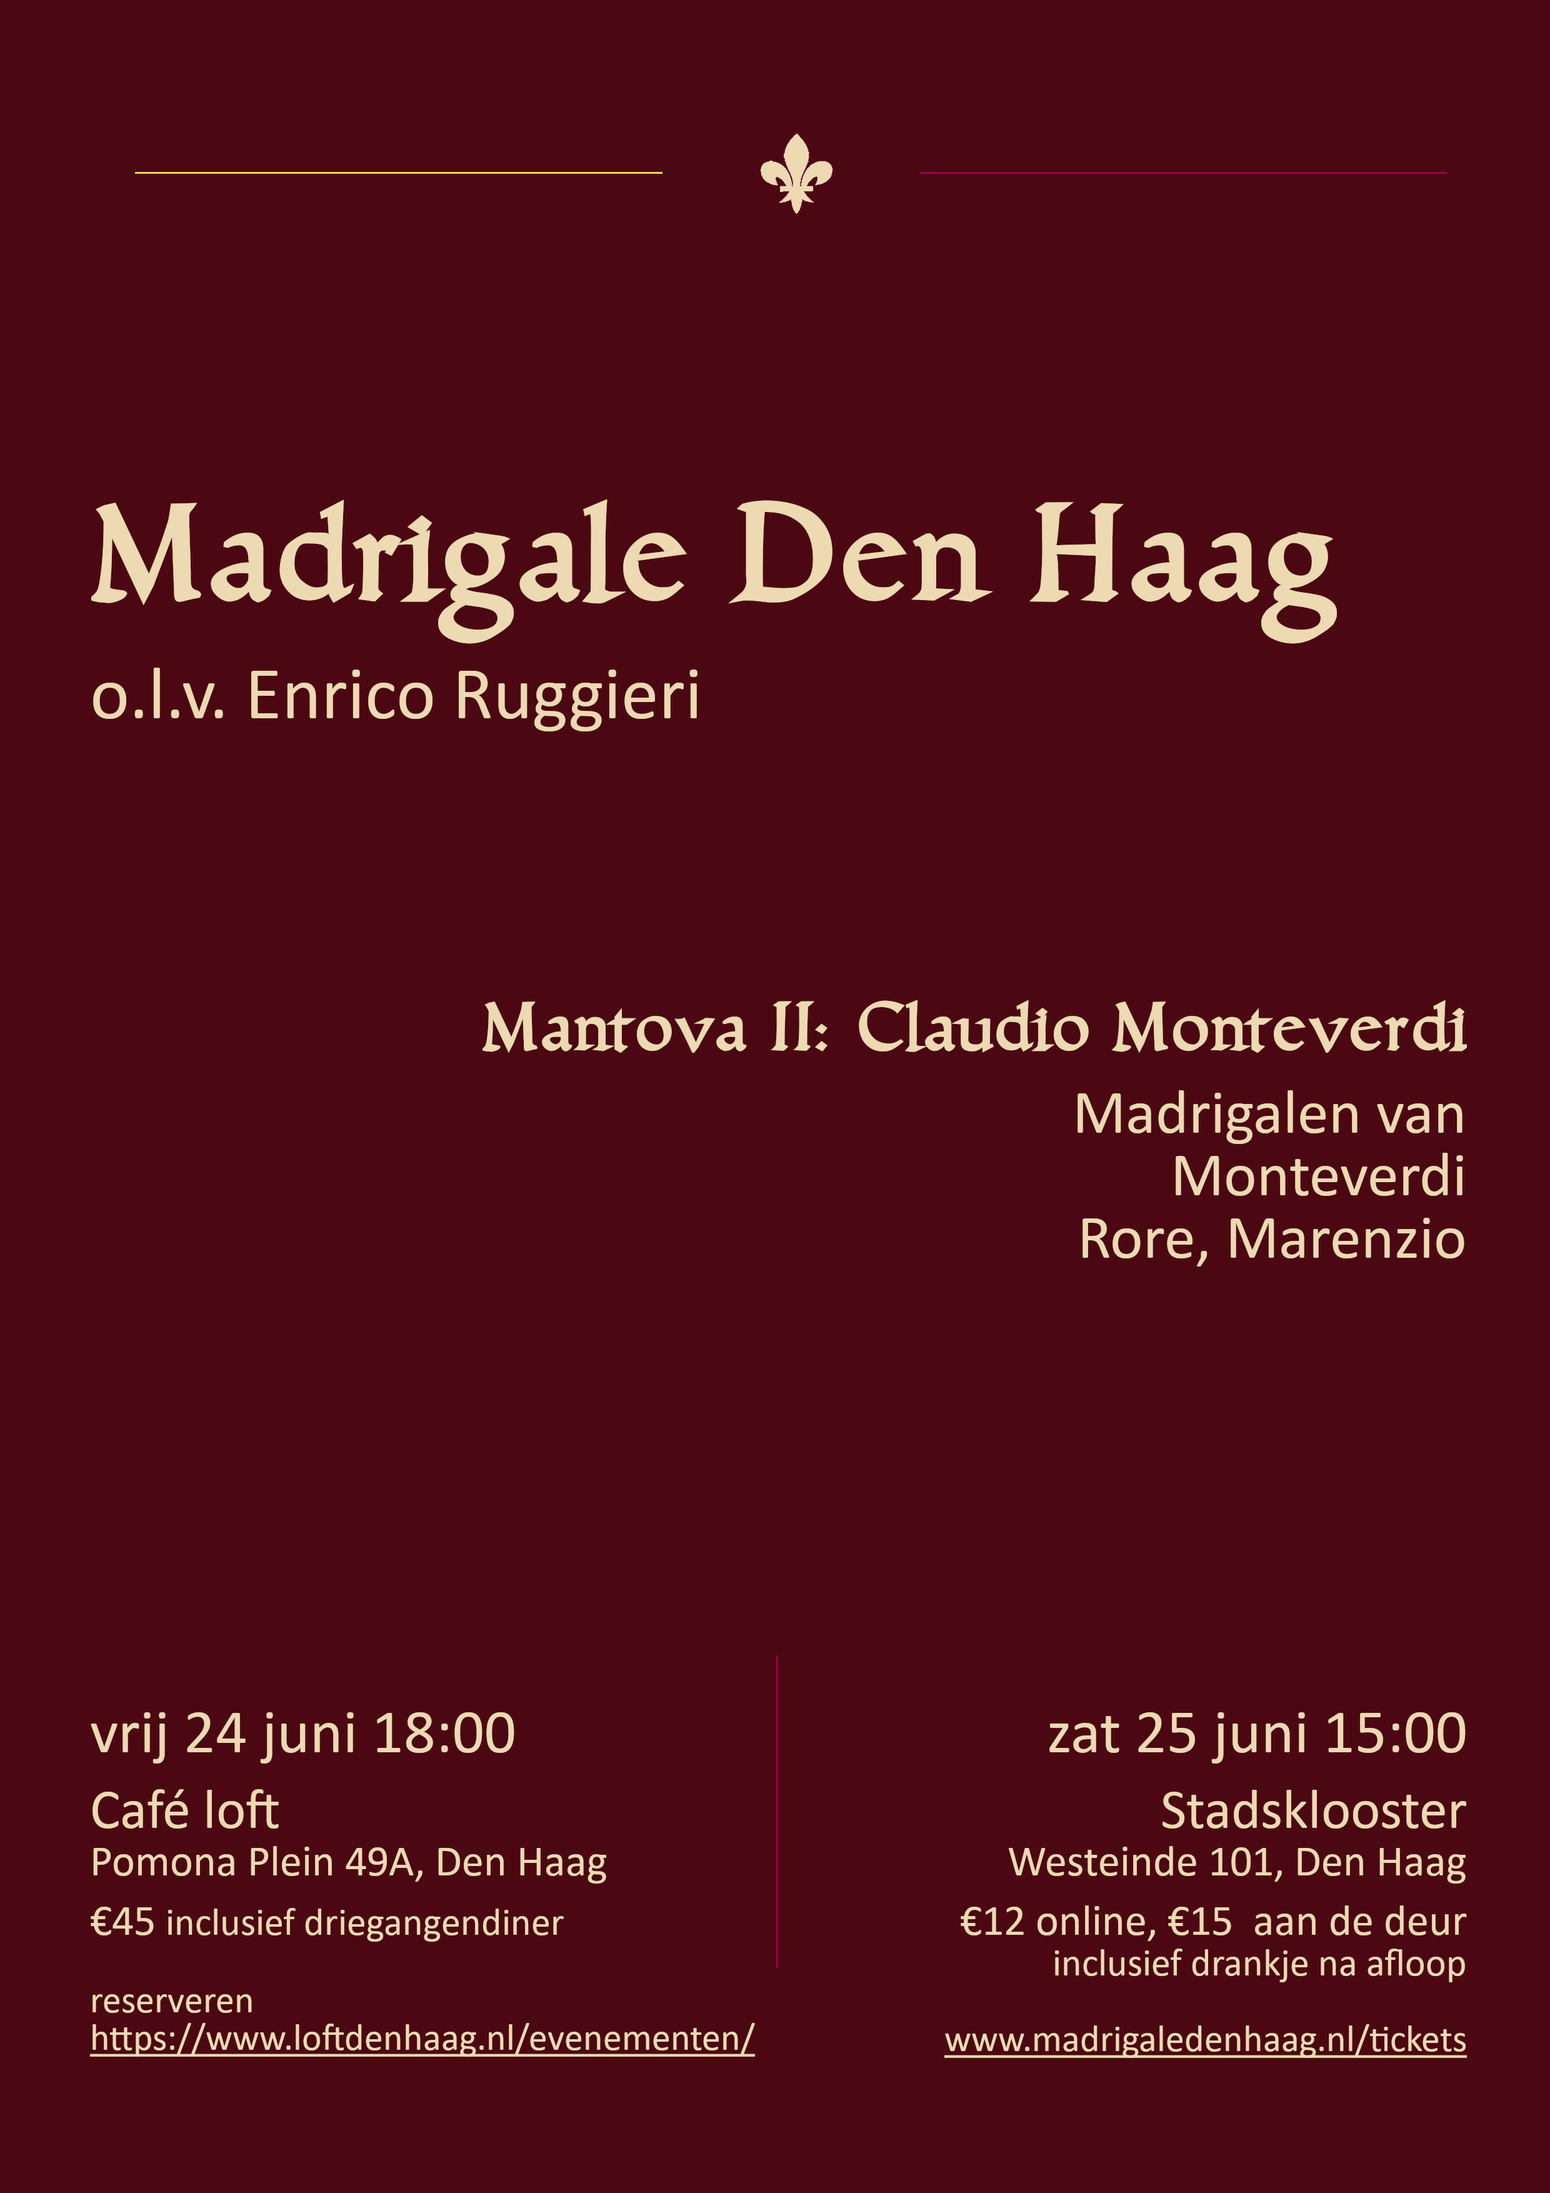
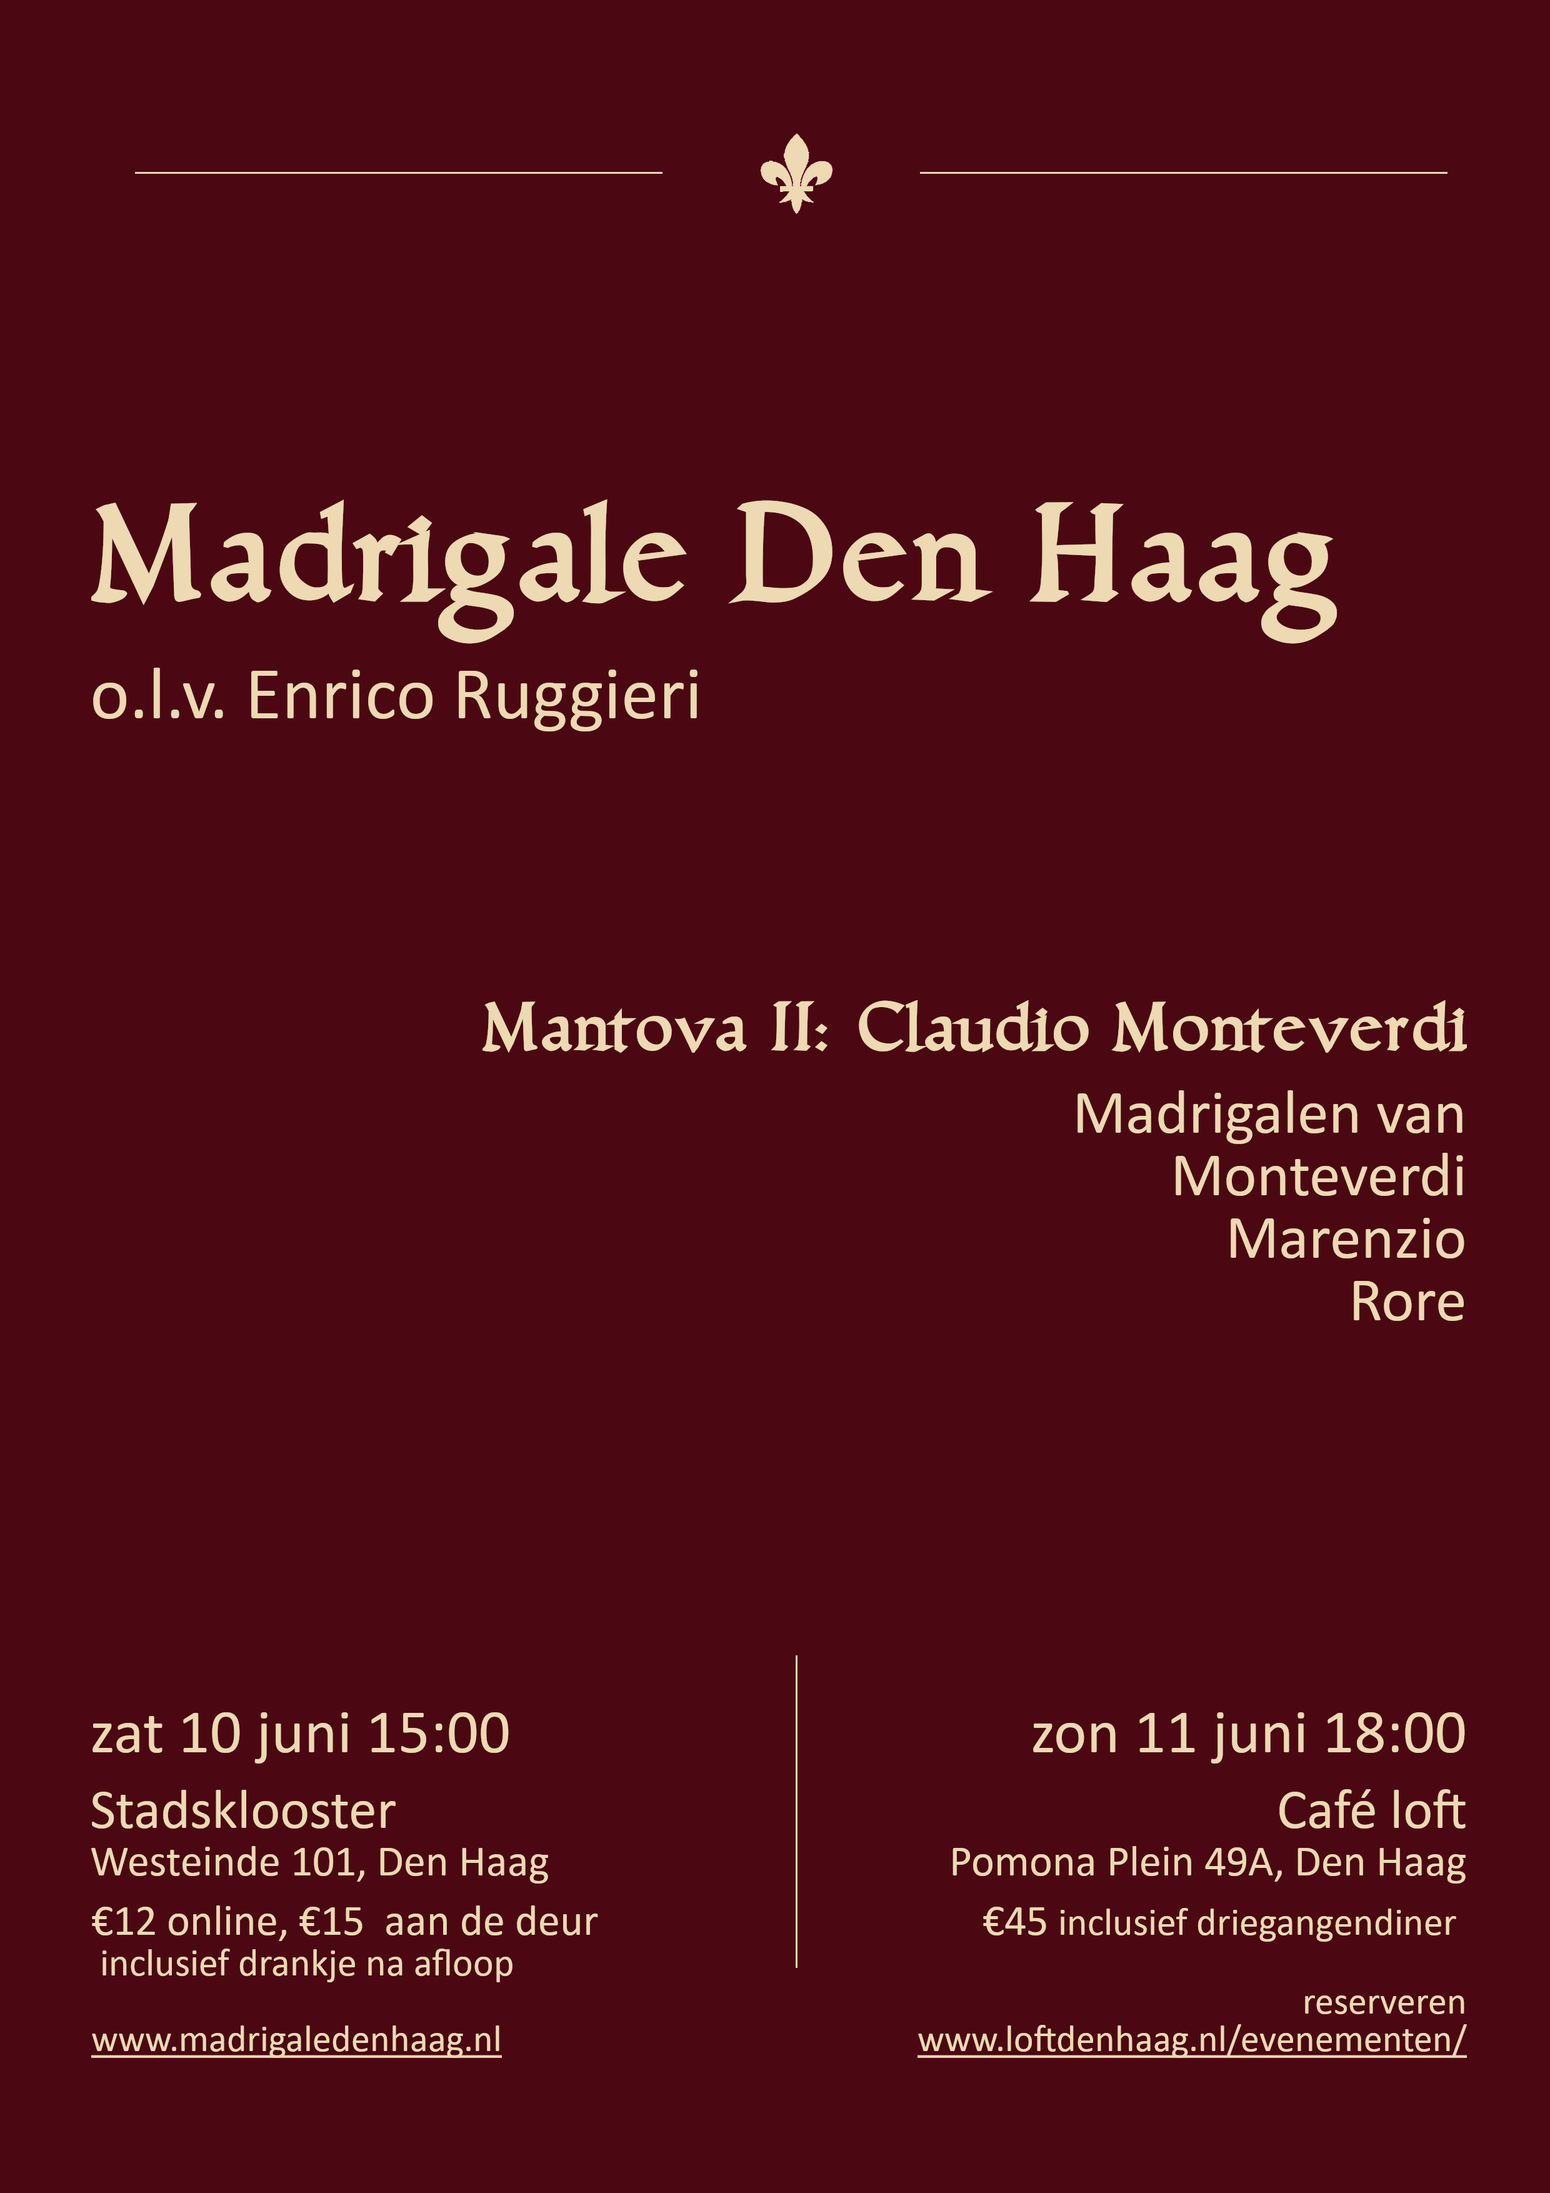
Various changes

diff --git a/layouts/index.html b/layouts/index.html
@@ -1,0 +1,55 @@
+{{ define "main" }}
+ <article class="cf ph3 ph5-l pv3 pv4-l f4 tc-l center measure-wide lh-copy {{ $.Param "text_color" | default "mid-gray" }}">
+    {{ .Content }}
+  </article>
+  {{/* Define a section to pull recent posts from. For Hugo 0.20 this will default to the section with the most number of pages. */}}
+  {{ $mainSections := .Site.Params.mainSections | default (slice "post") }}
+  {{/* Create a variable with that section to use in multiple places. */}}
+  {{ $section := where .Site.RegularPages "Section" "in" $mainSections }}
+  {{/* Check to see if the section is defined for ranging through it */}}
+  {{ $section_count := len $section }}
+  {{ if ge $section_count 1 }}
+    {{/* Derive the section name  */}}
+    {{ $section_name := index (.Site.Params.mainSections) 0 }}
+
+    <div class="pa3 pa4-ns w-100 w-70-ns center">
+      {{/* Use $section_name to get the section title. Use "with" to only show it if it exists */}}
+       {{ with .Site.GetPage "section" $section_name }}
+          <h1 class="flex-none">
+            {{ $.Param "recent_copy" | default (i18n "recentTitle" .) }}
+          </h1>
+        {{ end }}
+
+      {{ $n_posts := $.Param "recent_posts_number" | default 3 }}
+
+      <section class="w-100 mw8">
+        {{/* Range through the first $n_posts items of the section */}}
+        {{ range (first $n_posts $section) }}
+          <div class="relative w-100 mb4">
+            {{ .Render "summary-with-image" }}
+          </div>
+        {{ end }}
+      </section>
+
+      {{ if ge $section_count (add $n_posts 1) }}
+      <section class="w-100">
+        <h1 class="f3">{{ i18n "more" }}</h1>
+{{/*         Now, range through the next four after the initial $n_posts items. Nest the requirements, "after" then "first" on the outside */}}
+        {{ range (first 4 (after $n_posts $section))  }}
+          <h2 class="f5 fw4 mb4 dib {{ cond (eq $.Site.Language.LanguageDirection "rtl") "ml3" "mr3" }}">
+            <a href="{{ .RelPermalink }}" class="link black dim">
+              {{ .Title }}
+            </a>
+          </h2>
+        {{ end }}
+
+        {{/* As above, Use $section_name to get the section title, and URL. Use "with" to only show it if it exists */}}
+        {{ with .Site.GetPage "section" $section_name }}
+          <a href="{{ .RelPermalink }}" class="link db f6 pa2 br3 bg-mid-gray white dim w4 tc">{{ i18n "allTitle" . }}</a>
+        {{ end }}
+        </section>
+      {{ end }}
+
+      </div>
+  {{ end }}
+{{ end }}

diff --git a/layouts/_default/summary-with-image.html b/layouts/_default/summary-with-image.html
@@ -1,0 +1,34 @@
+{{ $featured_image := partial "func/GetFeaturedImage.html" . }}
+<article class="bb b--black-10">
+  <div class="db pv4 ph3 ph0-l no-underline dark-gray">
+    <div class="flex flex-column flex-row-ns">
+      {{ if $featured_image }}
+          {{/* Trimming the slash and adding absURL make sure the image works no matter where our site lives */}}
+        <div class="{{ cond (eq $.Site.Language.LanguageDirection "rtl") "pl3-ns" "pr3-ns" }} mb4 mb0-ns w-100 w-40-ns">
+          <a href="{{.RelPermalink}}" class="db grow">
+            <img src="{{ $featured_image }}" class="img" alt="image from {{ .Title }}">
+          </a>
+        </div>
+      {{ end }}
+      <div class="blah w-100{{ if $featured_image }} w-60-ns {{ cond (eq $.Site.Language.LanguageDirection "rtl") "pr3-ns" "pl3-ns" }}{{ end }}">
+        <h1 class="f3 fw1 athelas mt0 lh-title">
+          <a href="{{.RelPermalink}}" class="color-inherit dim link">
+            {{ .Title }}
+            </a>
+        </h1>
+        <div class="f6 f5-l lh-copy nested-copy-line-height nested-links">
+          {{ range .Params.details}}
+          <p><strong>{{ .date | time.Format (default "January 2, 2006" .Site.Params.date_format) }}
+            - {{ .venue}}</strong><br>
+            {{ .address }}<br>
+            <i>{{ .price}}</i><br>
+            <a href="{{ .ticketLink}}">{{.ticketText}}</a></p>
+          {{end}}
+        </div>
+          <a href="{{.RelPermalink}}" class="ba b--moon-gray bg-light-gray br2 color-inherit dib f7 hover-bg-moon-gray link mt2 ph2 pv1">{{ $.Param "read_more_copy" | default (i18n "readMore") }}</a>
+        {{/* TODO: add author
+        <p class="f6 lh-copy mv0">By {{ .Author }}</p> */}}
+      </div>
+    </div>
+  </div>
+</article>

diff --git a/layouts/post/single.html b/layouts/post/single.html
@@ -1,18 +1,23 @@
 {{ define "header" }}{{ partial "page-header.html" . }}{{ end }}
 {{ define "main" }}
-  <div class="flex-l mt2 mw8 center">
-    <article class="center cf pv5 ph3 ph4-ns mw7">
-      <header>
-        <h1 class="f1">
-          {{ .Title }}
-        </h1>
-      </header>
-      <div class="nested-copy-line-height lh-copy f4 nested-links {{ $.Param "text_color" | default "mid-gray" }}">
-      <img src="{{ .Params.featured_image}}" alt="poster">
-        {{ .Summary }}
-      <h2>Description</h2>
-      {{ .Content }}
-      </div>
-    </article>
-  </div>
+    <div class="flex-l mt2 mw8 center">
+        <article class="center cf pv5 ph3 ph4-ns mw7">
+            <header>
+                <h1 class="f1">
+                    {{ .Title }}
+                </h1>
+            </header>
+            <div class="nested-copy-line-height lh-copy f4 nested-links {{ $.Param "text_color" | default "mid-gray" }}">
+                <img src="{{ .Params.featured_image}}" alt="poster">
+                {{ range .Params.details}}
+                    <p><strong>{{ .date | time.Format (default "January 2, 2006" .Site.Params.date_format) }}
+                        - {{ .venue}}</strong> {{ .address }}<br>
+                    <i>{{ .price}}</i><br>
+                    <a href="{{ .ticketLink}}">{{.ticketText}}</a></p>
+                {{end}}
+                <h2>Description</h2>
+                {{ .Content }}
+            </div>
+        </article>
+    </div>
 {{ end }}

diff --git a/content/en/about/index.md b/content/en/about/index.md
@@ -8,19 +8,11 @@ menu:
 ---
 ## Madrigale Den Haag
 
-Madrigale Den Haag richt haar repertoire op het Italiaanse madrigaal uit de 16e en 17e eeuw. Het madrigaal was het meest verheven en meest uitgevoerde wereldlijke muziekgenre aan de Italiaanse hoven in de renaissance. De MDH-programma’s verkennen de madrigaalstijlen die afkomstig zijn van Italiaanse hoven en hun vooraanstaande musici. De uitvoeringen zijn een volledige onderdompeling in dat fascinerende genre, zijn historische context en zijn poëzie, dat vele jaren het vermaak is geweest van muzikaal geschoolde amateurs en hun geselecteerde gasten.
-
+Madrigale Den Haag focus their repertoire on the Italian madrigal of the 16th and 17th centuries. The madrigal was the most elevated and performed secular music genre in the Renaissance Italian courts. MDH programs explore the madrigal styles coming from Italian courts and their prominent musicians. The performances will be a full immersion in that fascinating genre, its historical context and its poetry, which for many years would have been the entertainment of musically educated amateurs and their selected guests.
 ## Conductor
-Enrico Ruggieri, geboren in 1982, studeerd af in piano vond daarna zijn roeping in het
-dirigeren van koren. In Rome en Bologna studeerde hij koormuziek en koordirectie en
-behaalde tenslotte zijn masters aan het Koninklijk Conservatorium in Den Haag. Om zich
-verder te ontwikkelen volgde hij masterclasses in directie en oude muziek bij internationaal
-vermaarde specialisten.
+Enrico Ruggieri, born in 1982, after graduating as pianist, found his vocation in conducting choir. He studied choral music and conducting in Rome, Bologna and finally got a Master Degree at the Royal Conservatory of The Hague. He perfected himself attending masterclasses in conducting and early music by internationally renowned specialists.
 
-Hij was dirigent van vele ensembles groot en klein en van verschillende genres, met een
-voorkeur voor de polyfone stijl en de madrigaalmuziek van de late Renaissance en vroege
-Barok. Hij deed uitgebreid onderzoek naar de Portugese geestelijke muziek uit de 18e eeuw,
-waar hij transcripties van maakte en uitvoeringen van gaf.
+He conducted many ensembles of different sizes and genres, favouring the polyphonic style and the madrigal music of the late Renaissance and early Baroque style. He extensively researched, transcribed and performed sacred Portuguese music in the 18th century.
 
-Op dit moment is Enrico Ruggieri dirigent van het Haags Renaissance Kamerkoor en de
-projectkoren Madrigale Den Haag en Kamerkoor Koorteze.
+Presently Enrico Ruggieri conducts the Haags Renaissance Kamerkoor and the project choirs Madrigale Den Haag and Kamerkoor Koorteze.
+

diff --git a/content/nl/about/index.md b/content/nl/about/index.md
@@ -1,0 +1,26 @@
+---
+title: "About"
+description: ""
+featured_image: '/images/mdh-logo.jpeg'
+menu:
+  main:
+    weight: 1
+---
+## Madrigale Den Haag
+
+Madrigale Den Haag richt haar repertoire op het Italiaanse madrigaal uit de 16e en 17e eeuw. Het madrigaal was het meest verheven en meest uitgevoerde wereldlijke muziekgenre aan de Italiaanse hoven in de renaissance. De MDH-programma’s verkennen de madrigaalstijlen die afkomstig zijn van Italiaanse hoven en hun vooraanstaande musici. De uitvoeringen zijn een volledige onderdompeling in dat fascinerende genre, zijn historische context en zijn poëzie, dat vele jaren het vermaak is geweest van muzikaal geschoolde amateurs en hun geselecteerde gasten.
+
+## Dirigent
+Enrico Ruggieri, geboren in 1982, studeerd af in piano vond daarna zijn roeping in het
+dirigeren van koren. In Rome en Bologna studeerde hij koormuziek en koordirectie en
+behaalde tenslotte zijn masters aan het Koninklijk Conservatorium in Den Haag. Om zich
+verder te ontwikkelen volgde hij masterclasses in directie en oude muziek bij internationaal
+vermaarde specialisten.
+
+Hij was dirigent van vele ensembles groot en klein en van verschillende genres, met een
+voorkeur voor de polyfone stijl en de madrigaalmuziek van de late Renaissance en vroege
+Barok. Hij deed uitgebreid onderzoek naar de Portugese geestelijke muziek uit de 18e eeuw,
+waar hij transcripties van maakte en uitvoeringen van gaf.
+
+Op dit moment is Enrico Ruggieri dirigent van het Haags Renaissance Kamerkoor en de
+projectkoren Madrigale Den Haag en Kamerkoor Koorteze.

diff --git a/content/nl/post/2023-mantova-II.md b/content/nl/post/2023-mantova-II.md
@@ -1,15 +1,22 @@
 ---
 date: 2022-11-27T11:25:05-04:00
-description: "Music by Monteverdi at the Mantova court"
+description: "Music by Monteverdi in the Mantova court"
 featured_image: "/images/2023-mantova-II.png"
 tags: []
 title: "Mantova II: Claudio Monteverdi"
 disable_share: false
 year: "2023"
-details: [
-{date: 2022-06-10T15:00:05-04:00, venue: "Stadsklooster", address: "Westeinde 101, 2512 GW Den Haag", price: "€15, after concert drinks included", ticketText: "Buy Ticket", ticketLink: "https://www.ticketkantoor.nl/shop/mantova-ii"},
-{date: 2022-06-11T18:00:05-04:00, venue: "Cafe’ Loft", address: "Pomonaplein 49A, 2564XS Den Haag", price: "€45, 3 courses Italian dinner included", ticketText: "Reserve table", ticketLink: "https://www.loftdenhaag.nl/en/contact/"},
-]
+
+summary: "
+**Sat 10 Jun 15:00 – Stadsklooster** /    
+Westeinde 101, 2512 GW Den Haag /   
+€15, *after concert drinks included* / 
+[Buy Ticket]()
+
+
+**Sun 11 Jun 18:00 – Cafe’ Loft** / Pomonaplein 49A, 2564XS Den Haag / €45, *3 courses Italian dinner included*   
+/ [For reservations – Cafe’ Loft](https://www.loftdenhaag.nl/en/contact/)
+"
 ---
 Claudio Monteverdi is considered one of the pioneers of the Baroque style and the development of the *melodramma*, the origin of the *opera*. However also his contribution to the Renaissance  madrigal style was substantial both in number and in quality.
 

diff --git a/content/nl/post/2022-mantova-I.md b/content/nl/post/2022-mantova-I.md
@@ -1,15 +1,20 @@
 ---
 date: 2022-11-26T11:25:05-04:00
-description: "Music by Giaches de Wert at the Mantua court"
+description: "Music by Giaches de Wert in the Mantova court"
 featured_image: "/images/2022-mantova-I.jpeg"
 tags: []
 title: "Mantova I: Giaches de Wert"
 disable_share: false
 year: "2022"
-details: [
-{date: 2022-06-24T18:00:05-04:00, venue: "Cafe’ Loft", address: "Pomonaplein 49A, 2564XS Den Haag", price: "€45, 3 courses Italian dinner included", ticketText: "Reserve table", ticketLink: "https://www.loftdenhaag.nl/en/contact/"},
-{date: 2022-06-25T15:00:05-04:00, venue: "Stadsklooster", address: "Westeinde 101, 2512 GW Den Haag", price: "€15, after concert drinks included", ticketText: "Buy Ticket", ticketLink: ""},
-]
+summary: "
+**Fri 24 Jun 18:00 – Cafe’ Loft** / Pomonaplein 49A, 2564XS Den Haag / €45, *3 courses Italian dinner included*   
+/ [For reservations – Cafe’ Loft](https://www.loftdenhaag.nl/en/contact/)
+
+
+**Sat 25 Jun 15:00 – Stadsklooster** /    
+Westeinde 101, 2512 GW Den Haag /   
+€15, *after concert drinks included*
+"
 ---
 Madrigale Den Haag will perform madrigals by the most prominent musician in Mantua of the mid 16th century: Giaches de Wert. 
 

diff --git a/content/nl/_index.md b/content/nl/_index.md
@@ -1,0 +1,11 @@
+---
+title: "Madrigale Den Haag"
+
+description: "Vocal Ensemble"
+# 1. To ensure Netlify triggers a build on our exampleSite instance, we need to change a file in the exampleSite directory.
+theme_version: '2.8.2'
+cascade:
+  featured_image: '/images/mdh-logo.jpeg'
+---
+Welcome to the Madrigale Den Haag website!  
+See below for the next concert. 

diff --git a/content/nl/contact.md b/content/nl/contact.md
@@ -1,0 +1,13 @@
+---
+title: Contact
+featured_image: ''
+omit_header_text: true
+description: We'd love to hear from you
+type: page
+menu: main
+
+---
+
+
+Send us a message! We will get back to you in 48 hours maximum.
+{{< form-contact action="https://formspree.io/f/xdojvvdv"  >}}

diff --git a/content/nl/post/_index.md b/content/nl/post/_index.md
@@ -1,0 +1,5 @@
+---
+title: "Concerten"
+date: 2017-03-02T12:00:00-05:00
+---
+Take a look to our current and previous projects.
